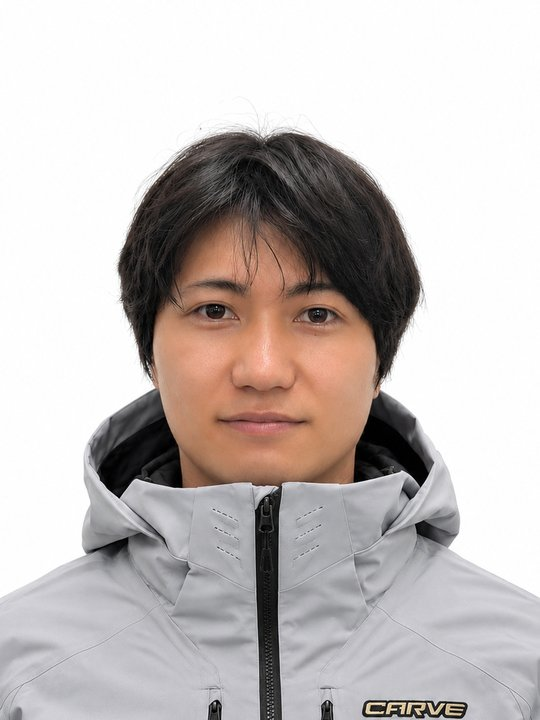
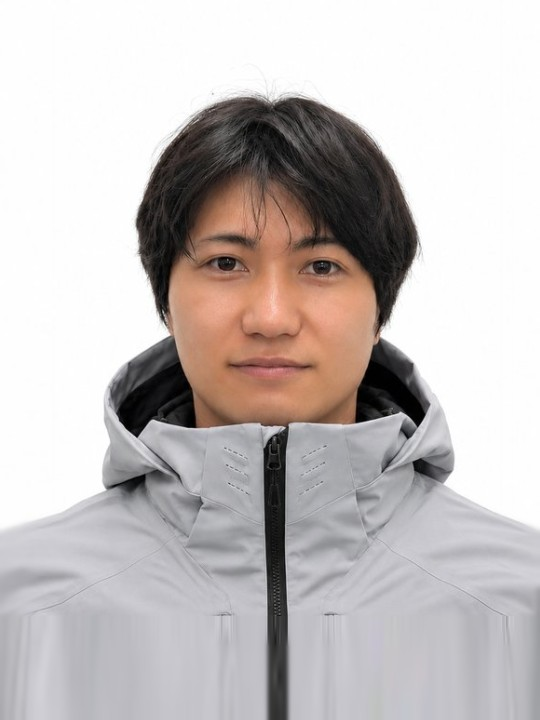
강사 사진: 테루 얼굴 크기·위치 맞춤, 휴대폰 소개 칸 사진 높이 모두 같게

diff --git a/src/components/sections/instructor-cards.tsx b/src/components/sections/instructor-cards.tsx
@@ -246,7 +246,7 @@ export function InstructorCards({ top = false }: { top?: boolean } = {}) {
         <div ref={growRef} className="ic-grow mx-auto mt-6 max-w-[560px] overflow-hidden rounded-3xl bg-white">
         <div key={cur.id} className="ic-panel flex min-h-[100svh] flex-col text-ink-900 sm:min-h-0 sm:flex-row sm:gap-4 sm:p-5">
           <div
-            className="min-h-[82vw] w-full flex-1 bg-cover sm:min-h-0 sm:h-[117px] sm:w-[88px] sm:flex-none sm:shrink-0 sm:rounded-2xl"
+            className="h-[103vw] w-full flex-none bg-cover sm:h-[117px] sm:w-[88px] sm:shrink-0 sm:rounded-2xl"
             style={{ backgroundImage: `url("${cur.image}")`, backgroundPosition: "center 20%" }}
             role="img"
             aria-label={t.photoAlt(cur.name)}
